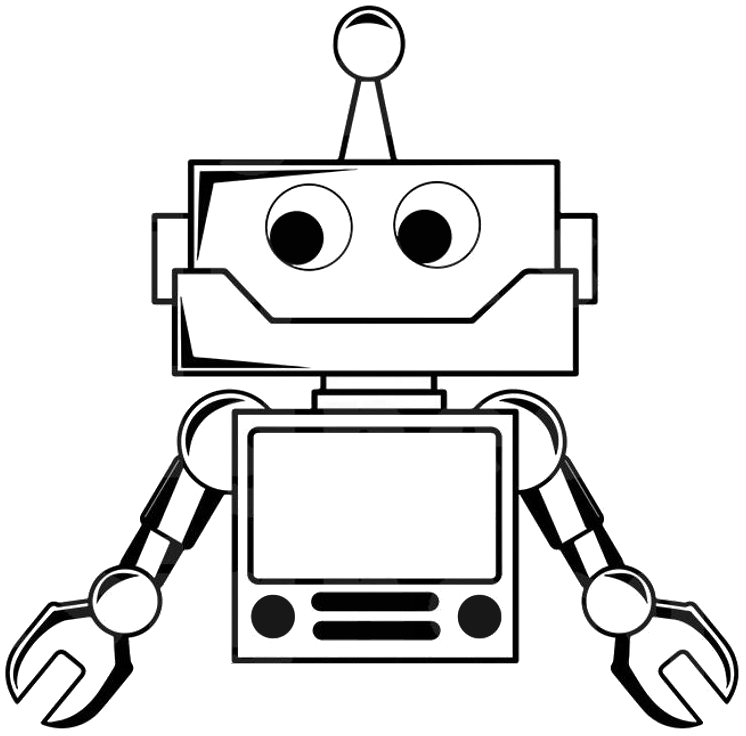
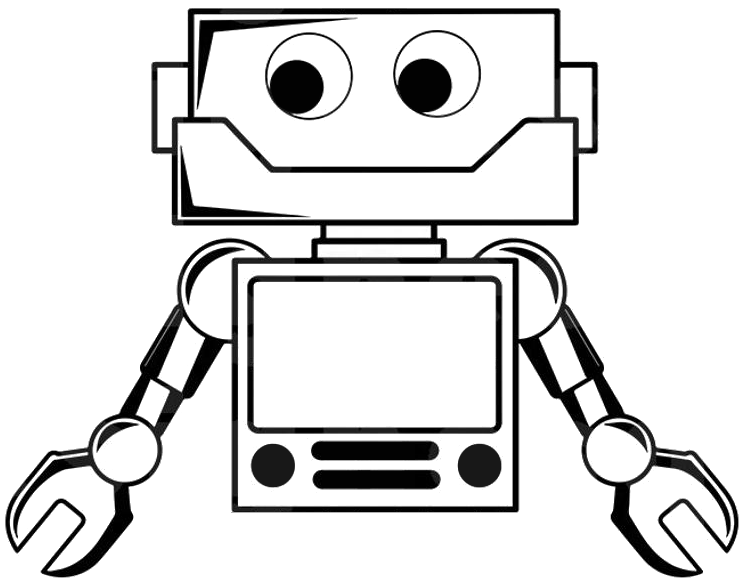
setting javascript logic, work in progress

Changed region(s): [[0.0, 0.0, 1.0, 1.0]]

diff --git a/css/main.css b/css/main.css
@@ -1,3 +1,12 @@
+ html, body {
+    height: 100%;
+  }
+  body {
+    display: flex;
+    flex-direction: column;
+    justify-content: center;
+    align-items: center;
+  }
 @font-face {
     font-family: 'press_start_2pregular';
     src: url('/img/pressstart2p-regular-webfont.woff2') format('woff2'),
@@ -20,12 +29,12 @@
 #robot{
     background-image: url("/img/robot.png");
     width:746px;
-    height: 736px;
+    height: 585px;
 }
 #displayBox{
     width: 240px;
     height: 143px;
-    margin-top: 432px;
+    margin-top: 281px;
     margin-left: 253px;
     color:rgb(0, 255, 0);
     border: 2px solid rgb(94, 94, 94);
@@ -38,7 +47,10 @@
     background-color: rgb(31, 31, 31);
     
 }
-#displayBox p{
+#welcome{
+    width: 190px;
+    height: 45px;
+    padding-top: 10px;
     text-align: center;
 }
 #scoreBox{
@@ -139,7 +151,60 @@
 #PlayerChoiceBox{
     margin-top: -55px;
     width:350px;
-    height:100px;
-    background-color: green;
+    height:150px;
+    /*background-color: green;
     /*opacity: 80%;*/
+}
+#playRounds{
+    width: 100%;
+    height: 34px;
+    border-radius: 10px;
+    background-color: black;
+    display: flex;
+    align-items: center;
+    justify-content: center;
+}
+#roundsLabel{
+    font-weight: bold;
+    font-family: 'press_start_2pregular';
+    font-size: 10px;
+    color:rgb(0, 255, 0);
+    /*transform: scale(3, 3);*/
+}
+#numberRounds{
+    margin-left: 5px;
+    padding-left: 5px;
+    text-align: center;
+    width: 35px;
+    font-weight: bold;
+    font-family: 'press_start_2pregular';
+    font-size: 18px;
+    color:rgb(0, 255, 0);
+    background-color: black;
+    border:none;
+    border-bottom: 2px solid darkgray;
+}
+#choiceWrapper{
+    width:350px;
+    height:115px;
+    margin-top: 20px;
+    display:flex;
+    flex-direction: row;
+    /*background-color: blue;*/
+
+}
+.choice{
+    display: flex;
+    justify-content: center;
+    align-content: center;
+    width: 33%;
+    height: 115px;
+}
+.choice img{
+    width: 100%;
+    
+}
+.choice img:hover{
+    border-radius: 50%;
+    border: 4px solid black;
 }

diff --git a/js/main.js b/js/main.js
@@ -1,0 +1,79 @@
+let playerWin = 0;
+let computerWin = 0;
+let roundsBox = document.getElementById("numberRounds")
+
+let welcome = "Choose Your WEAPON!";
+let lost = "YOU LOST THIS ROUND!";
+let won = "YOU WON THIS ROUND!"
+let wonGame = "YOU WON\nTHE GAME!"
+let wonGame1 = "YOU WON"
+let wonGame2 = "THE GAME!"
+let speed = 110;
+
+userScore = document.querySelector("#playerWin p");
+userScore.textContent = playerWin;
+
+computerScore = document.querySelector("#computerWin p");
+computerScore.textContent = computerWin;
+
+roundsBox.value = 5;
+
+let b = 0;
+function welcomeWriter(){
+    document.getElementById("welcome").innerHTML = "";
+    let b = 0;
+
+    function welRepeat(){
+        if(b < welcome.length){
+            document.getElementById("welcome").innerHTML += welcome.charAt(b);
+            b++;
+            setTimeout(welRepeat, speed);
+        }
+    }
+    welRepeat();
+}
+function lostWriter(){
+    document.getElementById("welcome").innerHTML = "";
+    let w = 0;
+
+    function lostRepeat(){
+        if(w < lost.length){
+            document.getElementById("welcome").innerHTML += lost.charAt(w);
+            w++;
+            setTimeout(lostRepeat, speed);
+        }
+    }
+lostRepeat();
+}
+function wonWriter(){
+    document.getElementById("welcome").innerHTML = "";
+    let w = 0;
+
+    function wonRepeat(){
+        if(w < won.length){
+            document.getElementById("welcome").innerHTML += won.charAt(w);
+            w++;
+            setTimeout(wonRepeat, speed);
+        }
+    }
+wonRepeat();
+}
+function wonGameWriter(){
+    document.getElementById("welcome").innerHTML = "";
+    document.getElementById("welcome").style.width = "155px";
+
+    let w = 0;
+
+    function wonRepeat(){
+        if(w < wonGame.length){
+            document.getElementById("welcome").innerHTML += wonGame.charAt(w);
+            w++;
+            setTimeout(wonRepeat, speed);
+        }
+    }
+wonRepeat();
+}
+
+welcomeWriter();
+//lostWriter();
+

diff --git a/index.html b/index.html
@@ -13,12 +13,12 @@
 			<!--ROBOT BOX BEGIN-->
 			<div id="robot">
 				<div id="displayBox">
-					<p>Choose Your<br><br>WEAPON!</p>
+					<div id="welcome"></div>
 				</div>
 				<div id="scoreBox">
 					<div id="userCount">
-						<div class="countBox">
-							<p>0</p>
+						<div id="playerWin" class="countBox">
+							<p></p>
 						</div>
 					</div>
 					<div id="scoreLabel">
@@ -30,8 +30,8 @@
 						</div>
 					</div>
 					<div id="compCount">
-						<div class="countBox">
-							<p>0</p>
+						<div id="computerWin" class="countBox">
+							<p></p>
 						</div>
 					</div>
 				</div>
@@ -40,22 +40,26 @@
 
 			<!--PLAYER BOX BEGIN-->
 			<div id="PlayerChoiceBox">
+				<div id="playRounds">
+					<label id="roundsLabel">Number Of Rounds To Play?</label>
+					<input type="number" id="numberRounds">
+				</div>
 				<div id="choiceWrapper">
-					<div id="playerRock">
-
+					<div class="choice" id="playerRock" onclick="lostWriter()">
+						<img src="/img/PlayerRock.png">
 					</div>
 
-					<div id="playerPaper">
-					
+					<div class="choice" id="playerPaper" onclick="wonWriter()">
+						<img src="/img/playerPaper.png">
 					</div>
 
-					<div id="playerScissors">
-
+					<div class="choice" id="playerScissors" onclick="wonGameWriter()">
+						<img src="/img/playerScissors.png"
 					</div>
 				</div>
 
 				<div id="choiceAlert">
-					
+
 				</div>
 			</div>
 		</div>
